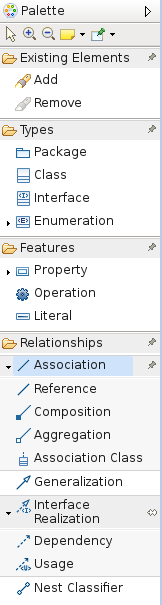
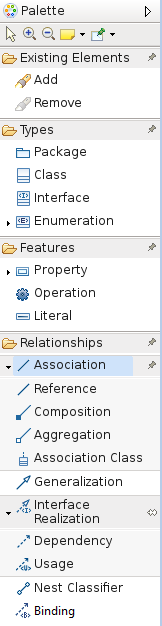
UML-365: Provide the documentation about generic class.

Changed region(s): [[0.0, 0.0, 0.9877, 1.0]]

diff --git a/plugins/org.obeonetwork.dsl.uml2.design.doc/doc/UML Designer User Guide.html b/plugins/org.obeonetwork.dsl.uml2.design.doc/doc/UML Designer User Guide.html
@@ -1,1 +1,1 @@
-<?xml version='1.0' encoding='utf-8' ?><!DOCTYPE html PUBLIC "-//W3C//DTD XHTML 1.0 Transitional//EN" "http://www.w3.org/TR/xhtml1/DTD/xhtml1-transitional.dtd"><html xmlns="http://www.w3.org/1999/xhtml"><head><meta http-equiv="Content-Type" content="text/html; charset=utf-8"/></head><body><p><i>&#169; Obeo 2011 -  All rights reserved. This program and the accompanying materials are made available under the terms of the Eclipse Public License v1.0</i></p><p><code>Authors</code> Gonzague Reydet / Cédric Brun / Yvan Lussaud<br/><code>Contact</code> cedric.brun@obeo.fr / yvan.lussaud@obeo.fr</p><h1 id="ProvidingFeedback">Providing Feedback</h1><p>This UML modeling environment is based on the <a href="http://www.obeodesigner.com">Obeo Designer</a> product. It is under an<br/>Open Source license (<strong>EPL</strong>) and the source code is hosted on <a href="https://github.com/ObeoNetwork/UML-Modeling">github</a>. </p><p>It is intended to cover most use cases behind the usage of UML, and more importantly to be reused when you apply a <br/>model driven approach wich uses both <strong>UML and some DSL</strong>. Everything should integrate seamlessly  in the same environment. </p><p>We&#8217;re constantly looking for feedback about this modeler, if you think something is missing, some behavior is weird or even just to tell us you are happy with it in its current state, <strong>please come and exchange</strong> on the <a href="http://www.obeonetwork.com/group/uml-designer">Obeo Network</a><br/>Fill in our <a href="http://bit.ly/UMLDesignerSurvey">survey</a>!</p><p>Feel free to fork the code, adapt it for your need and trigger a <a href="https://help.github.com/articles/using-pull-requests">pull request</a>.</p><h1 id="GettingStarted">Getting Started</h1><p>This section describes how to start using the UML designer either from existing UML models or by creating a new one.</p><h2 id="StartingfromtheTravelAgencyexample">Starting from the Travel Agency example</h2><p>Import the TravelAgency project using the menu <code>File/New/Example...</code>.</p><p><img border="0" src="gettingStarted/example-1-menu.png"/></p><p>Pick the <strong>Travel Agency UML</strong> wizard and click on <code>Next</code> and then <code>Finish</code>.</p><p><img border="0" src="gettingStarted/example-2-wizard.png"/></p><p>Click Finish on the wizard and a <strong>TravelAgency</strong> project appears in your workspace. </p><p><img border="0" src="gettingStarted/example-3-workspace.png"/></p><p>When the project gets opened,  you will be greeted with the main package hierarchy diagram.</p><p><img border="0" src="gettingStarted/example-4-maindiag.png"/></p><p>From here you can navigate to existing diagrams by right clicking on the <strong>Model</strong>.</p><h2 id="CreateanewUMLmodelUMLproject">Create a new UML model &amp; UML project</h2><p>To create a new UML project , enable the Modeling Perspective.</p><p><img border="0" src="gettingStarted/perspective.png"/></p><p>Then click on the wizard shortcuts at the top-right of the Eclipse Workbench. Select  <i>New UML Project.</i> </p><p><img border="0" src="gettingStarted/newUMLModel.png"/></p><p>You can choose specific name for the project and the root element for the project on the next pages.</p><p><img border="0" src="gettingStarted/newUMLProject.png"/></p><p>When you press the <i>Finish</i> button, the projects gets created and automatically enabled the UML viewpoints.</p><p><img border="0" src="gettingStarted/new-workspace.png"/></p><p>Now you can right click on the displayed package to create all the available diagrams or use the palette to create the package structure that fits to your needs. You can also open the Package hierarchy diagram and starts from here:</p><p><img border="0" src="gettingStarted/new-maindiag.png"/></p><h2 id="DisplayeditanexistingUMLmodel">Display &amp; edit an existing UML model</h2><p>To create a new UML design on existing UML models, simply drag &amp; drop the models in the Project or use the <i>Add Model</i> action available on the <i>Project Dependencies</i> item.</p><p><img border="0" src="gettingStarted/new-add-dependency.png"/></p><h2 id="vpselection">UML designer viewpoints</h2><p>Two viewpoints are specified on the UML designer each bringing the following views:</p><ul><li>UML Structural modeling<ul><li>Package hierarchy diagram</li><li>Class diagram</li><li>Component diagram</li><li>Object diagram</li><li>Composite diagram</li><li>Deployment diagram</li></ul></li><li>UML Behavioral modeling<ul><li>State machine diagram</li><li>Activity diagram</li><li>Use case diagram</li><li>Sequence diagram</li></ul></li><li>UML Profile Design<ul><li>Profile diagram</li></ul></li></ul><p>You can select either viewpoints or both depending on your use case. Note that the <i>Package hierarchy diagram</i> is the entry point to create new diagrams such as Activity or Sequence diagrams. So it is advised to select at least the <i>UML Structural modeling</i> viewpoint.</p><h1 id="UsingthePackageHierarchyDiagram">Using the Package Hierarchy Diagram</h1><p>The <code>Package Hierarchy</code> diagram is the starting point of your modeling task. It shows you <br/>the structure of your model (packages and sub-packages) and enable the creation of the other diagrams.</p><h2 id="CreatingaClassDiagram">Creating a Class Diagram</h2><p>To create a class diagram you should <strong>right-click</strong> on your model or on a package and pick <code>navigate</code> and then <code>new Class Diagram</code>.</p><p><img border="0" src="using_package_hierarchy/create_classdiag.png"/></p><h2 id="CreatingaDeploymentDiagram">Creating a Deployment Diagram</h2><p>To create a deployment diagram you should <strong>right-click</strong> on your model or on a package and pick <code>navigate</code> and then <code>new Deployment Diagram</code>.</p><h1 id="UsingtheClassDiagram">Using the Class Diagram</h1><h2 id="CreatingElements">Creating Elements</h2><p>All the elements you can create in a class diagram are available through the <strong>palette</strong>.</p><p><img border="0" src="using_class_diagram/palette.png"/></p><p>You also have the ability to create elements in a contextual way related to the currently selected elements.<br/>If your pointer is on the diagram background, after a few seconds you should see the following assistant :</p><p><img border="0" src="using_class_diagram/assistant.png"/></p><p>If your pointer is <strong>on a class</strong> the assistant will be : </p><p><img border="0" src="using_class_diagram/assistant_class.png"/></p><h2 id="EditingElements">Editing Elements</h2><p>The generic way to edit element values is using the <strong>properties view</strong>. If it is not opened yet<br/>you can open it clicking on the <strong>Window</strong> menu, then <strong>Show View</strong>  and then <strong>Properties</strong></p><p><img border="0" src="using_class_diagram/properties.png"/> </p><p>To edit a property you should then enable the <strong>Semantic</strong> tab :</p><p><img border="0" src="using_class_diagram/properties_values.png"/></p><h2 id="UsingUMLincolors">Using UML in colors</h2><p><a href="http://en.wikipedia.org/wiki/UML_colors">UML in colors</a> is an object modeling technique proposed by <a href="http://www.step-10.com/SoftwareDesign/ModellingInColour/index.html">Peter Coad</a>, Eric Lefebvre, and Jeff De Luca in a series of articles in 1999.<br/><img border="0" src="uml_in_colors/example.png"/><br/>An <code>Archetypes</code> layer is available in the UML Designer <code>class diagram</code>.<br/><img border="0" src="uml_in_colors/layer.png"/></p><p>When the layer is selected, new tools are available in the palette :<br/><img border="0" src="uml_in_colors/palette.png"/></p><p>The modeling in color patterns and strategies are built around the idea of class archetypes.<br/><img border="0" src="http://www.step-10.com/SoftwareDesign/ModellingInColour/images/FourArchetypesWithContentSideBySide.gif"/><br/>It exists four different kind of archetypes :</p><ul><li><strong>moment-interval</strong> and <strong>mi-detail</strong> (pink): represents a moment or interval of time, all things that happen in the software.</li><li><strong>role</strong> (yellow): represents something/someone who participates to moment-intervals.  </li><li><strong>description</strong> (blue): represents a collection of values a kind of catalog.</li><li><strong>party, place, or thing</strong> (green): represents someone or something that plays a role.</li></ul><p>The Domain Neutral Component (DNC) is the common pattern applied with the UML in colors technique.<br/><img border="0" src="http://www.step-10.com/SoftwareDesign/ModellingInColour/images/DNC.gif"/></p><p>To create an archetype in a class diagram just select an archetype from the palette of the tooltip.<br/>The archetypes are stored in UML model as stereotyped classes.<br/>To change an existing class to an archetype just selects the tool from the palette and the existing class. The stereotype of the selected archetype is applied on the class which is colored.</p><p>UML in colors examples are available from Eclipse menu File &gt; New &gt; Example... &gt; UML &gt; Uml in colors.</p><p>For more detailed explanation on UML in colors have a look to <a href="http://www.step-10.com/SoftwareDesign/ModellingInColour/index.html">Peter Coad&#8217;s website</a>.</p><h2 id="EditingAttributes">Editing Attributes</h2><p>We added a few accelerators so that you can quickly edit <strong>Attributes</strong> in a class just by typing the label. Typing : </p><ul><li><code>aNewName</code> will update the attribute name.</li><li><code>aNewName : SomeType</code> will update the attribute name and will look for the <strong>datatype</strong> with the given name. If found it will </li><li><code>/someName</code> will set the Attribute as <strong>derived</strong>.</li><li><code>=someValue</code> will set the <strong>default value</strong> of the Attribute. </li><li><code>[0..1]</code> will set the <strong>multiplicity</strong> of the attribute to 0 for the lower bound and 1 for the upper bound.</li><li><code>[0..*]</code> will set the <strong>multiplicity</strong> of the attribute to 0 for the lower bound and unbounded for the upper bound.</li></ul><h1 id="UsingtheDeploymentDiagram">Using the Deployment Diagram</h1><h2 id="CreatingElements2">Creating Elements</h2><p>All the elements you can create in a deployment diagram are available through the <strong>palette</strong>.</p><p><img border="0" src="using_deployment_diagram/palette.png"/></p><p>You also have the ability to create elements in a contextual way related to the currently selected elements.<br/>If your pointer is on the diagram background, after a few seconds you should see the following assistant :</p><p><img border="0" src="using_deployment_diagram/assistant.png"/></p><p>If your pointer is <strong>on a node</strong> the assistant will be : </p><p><img border="0" src="using_deployment_diagram/assistant_node.png"/></p><p>In deed, a node is a composite element.</p><h2 id="Editinglabels">Editing labels</h2><p>We added a few accelerators so that you can quickly edit <strong>labels</strong> on elements or edges just by typing. Typing : </p><ul><li><code>aNewName</code> will update the label.</li></ul><h1 id="UsingtheProfileDiagram">Using the Profile Diagram</h1><p><img border="0" src="using_profile_diagram/profile_diagram.png"/></p><h2 id="Creatingaprofile">Creating a profile</h2><p>To create a new profile, <strong>right_click</strong> on a model element in the Model Explorer and select the menu <em>New Representation &gt; Profile Diagram</em>.<br/><img border="0" src="using_profile_diagram/new_profile_diagram_menu.png"/></p><p>Another solution is to <strong>create a new UML model</strong> and select <strong><em>Profile</em></strong> as root element.<br/><img border="0" src="using_profile_diagram/new_profile_diagram_model.png"/></p><h2 id="Creatingastereotype">Creating a stereotype</h2><p>A tool is available in the palette to create a stereotype. <br/><img border="0" src="using_profile_diagram/palette_stereotype.png"/><br/><img border="0" src="using_profile_diagram/stereotype.png"/></p><p>By default, a stereotype does not extend any metaclass.</p><h2 id="Referencingametaclass">Referencing a metaclass</h2><p>A tool is available in the palette to import a list of metaclass.<br/><img border="0" src="using_profile_diagram/palette_metaclass.png"/><br/><img border="0" src="using_profile_diagram/metaclass.png"/></p><p>It opens a wizard which proposes all the available UML metaclass:<br/><img border="0" src="using_profile_diagram/wizard_metaclass.png"/></p><p>It is possible to filter the listed metaclass by :</p><ul><li>Name</li><li>Only concrete metaclasses</li><li>Only sub classes of a selected metaclass</li></ul><h2 id="Extendingametaclass">Extending a metaclass</h2><p>A tool is available in the palette to create extensions for a stereotype.<br/><img border="0" src="using_profile_diagram/palette_extension.png"/><br/><img border="0" src="using_profile_diagram/extension.png"/><br/>According to the context, this tool will create an <em>Extension</em> edge linking <em>Stereotype</em> to an <em>Element Import</em> or a <em>Generalization</em> edge linking two <em>Stereotypes</em>. An <em>Element Import</em> is an UML reference to an imported metaclass in a profile.<br/><img border="0" src="using_profile_diagram/wizard_metaclass.png"/></p><h2 id="Extraassociations">Extra associations</h2><p>This tool allows the creation of an UML “Association” between two stereotypes. <br/><img border="0" src="using_profile_diagram/extra_association.png"/><br/>Furthermore, this tool can suggest to reuse the existing relationship in the metamodel UML, if this relationship can link the metaclass referenced by the target and the source stereotype of the wanted association.<br/>If the user selects an existing relationship of the UML metamodel, then the tool will import the metaclass of the selected relationship and create a new stereotype that extend this relationship. Besides, the tool link graphically the new created stereotype and the source and target stereotype of the association<br/><img border="0" src="using_profile_diagram/wizard_extra_association.png"/></p><h2 id="Definingaprofile">Defining a profile</h2><p>The palette provides a tool to <strong>define a profile</strong> in order to be able to apply this one for other UML model in the workspace. This tool add information about the version to the profile as <em>Ecore Annotation</em>. Mainly, the information required for the versioning are:</p><ul><li>Version number</li><li>Date</li><li>Author</li><li>Comment</li><li>Copyright</li></ul><p><img border="0" src="using_profile_diagram/define_profile.png"/></p><p>Another tool is available to <strong>undefine a profile</strong>, this tool removes all the <em>EPackage</em> representing the definition from the profile.</p><h2 id="Exportingaprofile">Exporting a profile</h2><p>An <em>export profile</em> tool is available from the palette to export a profile as a jar file. This jar can be added to an eclipse platform to provide a profile as a registered package. The export operation creates an EMF project with an ecore file based on the profile model. Then an extension for the profile is added to the generated project (in “uml.generated_package” and “ecore.uri_mapping”). Finally, the tool builds and exports the created EMF project for the profile as a Deployable plug-in.<br/>The tool requires some necessary information for the creation of the deployable plug-in:</p><ul><li>Profile name, which is editable in the profile model.</li><li>Profile URI.</li><li>Profile plug-in name.</li><li>Version information</li></ul><p><img border="0" src="using_profile_diagram/export_profile.png"/></p><h1 id="Features">Features</h1><h2 id="ClassDiagram">Class Diagram</h2><h3 id="Introduction">Introduction</h3><p><img border="0" src="features/agency_pics/entities.jpg"/></p><h3 id="SupportforBrokenAssociations">Support for Broken Associations</h3><p>It might happen that for some reason you have an <strong>Association</strong> instance in your package which doesn&#8217;t have the proper <strong>ends</strong>. In that case<br/>the class diagram will show the broken associations as nodes :</p><p><img border="0" src="features/class_pics/broken associations Class Diagram.jpg"/></p><p>You can use the <strong>Association</strong> tools in the palette <i>(Association, Reference, Composition and Aggregation)</i> to re-attach the Association to a classifier.</p><h3 id="ClassesinSubComponents">Classes in SubComponents</h3><p>A <strong>Class Diagram</strong> created on a Package or a Model will display the contained classes but also the classes which are contained in Components of the selected Package.</p><p>Thanks to this one can easily define a <strong>Class Diagram</strong> displaying all the entities abstracting the fact that they might be split across components.</p><h2 id="ComponentDiagram">Component Diagram</h2><h3 id="Introduction2">Introduction</h3><p><img border="0" src="features/agency_pics/system architecture.jpg"/></p><h3 id="Connector">Connector</h3><p>You can link two ports using assembly or delegation connectors.</p><p>Assembly Connector :</p><p><img border="0" src="features/component_pics/assembly connector.jpg"/></p><p>Delegation Connector :</p><p><img border="0" src="features/component_pics/delegation connector.jpg"/></p><h3 id="CompositeComponents">Composite Components</h3><p><img border="0" src="features/component_pics/composite components.jpg"/></p><h3 id="UsingClass">Using Class</h3><p>As a component :</p><p><img border="0" src="features/component_pics/class as component.jpg"/></p><p>In a component :</p><p><img border="0" src="features/component_pics/implementation classes in component.jpg"/></p><h3 id="RequiredandProvidedInterfaces">Required and Provided Interfaces</h3><p>Using ports :</p><p><img border="0" src="features/component_pics/exchange through ports.jpg"/></p><p>Or directy on the components :</p><p><img border="0" src="features/component_pics/exchange through component.jpg"/></p><h2 id="UseCaseDiagram">Use Case Diagram</h2><h3 id="Introduction3">Introduction</h3><p><img border="0" src="features/agency_pics/system use cases.jpg"/></p><h3 id="Usecaseswithorwithoutsubjects">Use cases with or without subjects</h3><p>The <strong>Use Case Diagram</strong> will display any <code>UseCase</code> not being affected to a subject on the canvas. If a subject is affected, then the use case<br/>will be displayed directly within this subject.</p><p>Dragging a use case from a subject to the canvas (and the other way around) will set or unset the subject accordingly.</p><h2 id="ActivityDiagram">Activity Diagram</h2><h3 id="Introduction4">Introduction</h3><p><img border="0" src="features/agency_pics/to reserve a trip.jpg"/></p><h2 id="StateMachineDiagram">State Machine Diagram</h2><h3 id="Introduction5">Introduction</h3><p><img border="0" src="features/agency_pics/state_machine.png"/></p><h2 id="SequenceDiagram">Sequence Diagram</h2><p><img border="0" src="features/agency_pics/sequence.png"/></p><h2 id="DeploymentDiagram">Deployment Diagram</h2><h3 id="Introduction6">Introduction</h3><p><img border="0" src="features/agency_pics/deployment.png"/></p><h3 id="Artifactdependencyandgeneralization">Artifact dependency and generalization</h3><p><img border="0" src="features/deployment_pics/artifact_dependency_generalization.png"/></p><h3 id="Artifactmanifestationofpackageableelements">Artifact manifestation of packageable elements</h3><p><img border="0" src="features/deployment_pics/artifact_manifestation_component_package.png"/></p><h3 id="Artifactdeployment">Artifact deployment</h3><p><img border="0" src="features/deployment_pics/artifact_deployment.png"/><br/>We have two way to deploy an artifact:</p><ul><li>Deployment could be shown as a deploy dependency that is drawn from the artifact to the deployment target.</li><li>Deployment could also be shown with deployed artifacts contained by a deployment target.</li></ul><h3 id="DeviceExecutionEnvironmentNodeandlinks.">Device, Execution Environment, Node and links.</h3><p><img border="0" src="features/deployment_pics/links_between_nodes.png"/></p><h3 id="CompositeNodes">Composite Nodes</h3><p><img border="0" src="features/deployment_pics/composition.png"/></p></body></html>
+<?xml version='1.0' encoding='utf-8' ?><!DOCTYPE html PUBLIC "-//W3C//DTD XHTML 1.0 Transitional//EN" "http://www.w3.org/TR/xhtml1/DTD/xhtml1-transitional.dtd"><html xmlns="http://www.w3.org/1999/xhtml"><head><meta http-equiv="Content-Type" content="text/html; charset=utf-8"/></head><body><p><i>&#169; Obeo 2011 -  All rights reserved. This program and the accompanying materials are made available under the terms of the Eclipse Public License v1.0</i></p><p><code>Authors</code> Gonzague Reydet / Cédric Brun / Yvan Lussaud<br/><code>Contact</code> cedric.brun@obeo.fr / yvan.lussaud@obeo.fr</p><h1 id="ProvidingFeedback">Providing Feedback</h1><p>This UML modeling environment is based on the <a href="http://www.obeodesigner.com">Obeo Designer</a> product. It is under an<br/>Open Source license (<strong>EPL</strong>) and the source code is hosted on <a href="https://github.com/ObeoNetwork/UML-Modeling">github</a>. </p><p>It is intended to cover most use cases behind the usage of UML, and more importantly to be reused when you apply a <br/>model driven approach wich uses both <strong>UML and some DSL</strong>. Everything should integrate seamlessly  in the same environment. </p><p>We&#8217;re constantly looking for feedback about this modeler, if you think something is missing, some behavior is weird or even just to tell us you are happy with it in its current state, <strong>please come and exchange</strong> on the <a href="http://www.obeonetwork.com/group/uml-designer">Obeo Network</a><br/>Fill in our <a href="http://bit.ly/UMLDesignerSurvey">survey</a>!</p><p>Feel free to fork the code, adapt it for your need and trigger a <a href="https://help.github.com/articles/using-pull-requests">pull request</a>.</p><h1 id="GettingStarted">Getting Started</h1><p>This section describes how to start using the UML designer either from existing UML models or by creating a new one.</p><h2 id="StartingfromtheTravelAgencyexample">Starting from the Travel Agency example</h2><p>Import the TravelAgency project using the menu <code>File/New/Example...</code>.</p><p><img border="0" src="gettingStarted/example-1-menu.png"/></p><p>Pick the <strong>Travel Agency UML</strong> wizard and click on <code>Next</code> and then <code>Finish</code>.</p><p><img border="0" src="gettingStarted/example-2-wizard.png"/></p><p>Click Finish on the wizard and a <strong>TravelAgency</strong> project appears in your workspace. </p><p><img border="0" src="gettingStarted/example-3-workspace.png"/></p><p>When the project gets opened,  you will be greeted with the main package hierarchy diagram.</p><p><img border="0" src="gettingStarted/example-4-maindiag.png"/></p><p>From here you can navigate to existing diagrams by right clicking on the <strong>Model</strong>.</p><h2 id="CreateanewUMLmodelUMLproject">Create a new UML model &amp; UML project</h2><p>To create a new UML project , enable the Modeling Perspective.</p><p><img border="0" src="gettingStarted/perspective.png"/></p><p>Then click on the wizard shortcuts at the top-right of the Eclipse Workbench. Select  <i>New UML Project.</i> </p><p><img border="0" src="gettingStarted/newUMLModel.png"/></p><p>You can choose specific name for the project and the root element for the project on the next pages.</p><p><img border="0" src="gettingStarted/newUMLProject.png"/></p><p>When you press the <i>Finish</i> button, the projects gets created and automatically enabled the UML viewpoints.</p><p><img border="0" src="gettingStarted/new-workspace.png"/></p><p>Now you can right click on the displayed package to create all the available diagrams or use the palette to create the package structure that fits to your needs. You can also open the Package hierarchy diagram and starts from here:</p><p><img border="0" src="gettingStarted/new-maindiag.png"/></p><h2 id="DisplayeditanexistingUMLmodel">Display &amp; edit an existing UML model</h2><p>To create a new UML design on existing UML models, simply drag &amp; drop the models in the Project or use the <i>Add Model</i> action available on the <i>Project Dependencies</i> item.</p><p><img border="0" src="gettingStarted/new-add-dependency.png"/></p><h2 id="vpselection">UML designer viewpoints</h2><p>Two viewpoints are specified on the UML designer each bringing the following views:</p><ul><li>UML Structural modeling<ul><li>Package hierarchy diagram</li><li>Class diagram</li><li>Component diagram</li><li>Object diagram</li><li>Composite diagram</li><li>Deployment diagram</li></ul></li><li>UML Behavioral modeling<ul><li>State machine diagram</li><li>Activity diagram</li><li>Use case diagram</li><li>Sequence diagram</li></ul></li><li>UML Profile Design<ul><li>Profile diagram</li></ul></li></ul><p>You can select either viewpoints or both depending on your use case. Note that the <i>Package hierarchy diagram</i> is the entry point to create new diagrams such as Activity or Sequence diagrams. So it is advised to select at least the <i>UML Structural modeling</i> viewpoint.</p><h1 id="UsingthePackageHierarchyDiagram">Using the Package Hierarchy Diagram</h1><p>The <code>Package Hierarchy</code> diagram is the starting point of your modeling task. It shows you <br/>the structure of your model (packages and sub-packages) and enable the creation of the other diagrams.</p><h2 id="CreatingaClassDiagram">Creating a Class Diagram</h2><p>To create a class diagram you should <strong>right-click</strong> on your model or on a package and pick <code>navigate</code> and then <code>new Class Diagram</code>.</p><p><img border="0" src="using_package_hierarchy/create_classdiag.png"/></p><h2 id="CreatingaDeploymentDiagram">Creating a Deployment Diagram</h2><p>To create a deployment diagram you should <strong>right-click</strong> on your model or on a package and pick <code>navigate</code> and then <code>new Deployment Diagram</code>.</p><h1 id="UsingtheClassDiagram">Using the Class Diagram</h1><h2 id="CreatingElements">Creating Elements</h2><p>All the elements you can create in a class diagram are available through the <strong>palette</strong>.</p><p><img border="0" src="using_class_diagram/palette.png"/></p><p>You also have the ability to create elements in a contextual way related to the currently selected elements.<br/>If your pointer is on the diagram background, after a few seconds you should see the following assistant :</p><p><img border="0" src="using_class_diagram/assistant.png"/></p><p>If your pointer is <strong>on a class</strong> the assistant will be : </p><p><img border="0" src="using_class_diagram/assistant_class.png"/></p><h2 id="EditingElements">Editing Elements</h2><h3 id="Generality">Generality</h3><p>The generic way to edit element values is using the <strong>properties view</strong>. If it is not opened yet<br/>you can open it clicking on the <strong>Window</strong> menu, then <strong>Show View</strong>  and then <strong>Properties</strong></p><p><img border="0" src="using_class_diagram/properties.png"/> </p><p>To edit a property you should then enable the <strong>Semantic</strong> tab :</p><p><img border="0" src="using_class_diagram/properties_values.png"/></p><h3 id="GenericClass">Generic Class</h3><p>To define a Generic Class, use the direct edit tool:</p><p><img border="0" src="using_class_diagram/generic_class.png"/></p><p>To define a Binding, use the create edge tool called &#171;Binding&#187; from a Class to a Generic Class.<br/>You may notice that &#171;?&#187; refers to an undefined actual type:</p><p><img border="0" src="using_class_diagram/binding1_class.png"/></p><p>To specify the binding association from the formal to the actual type use also the direct edit tool:</p><p><img border="0" src="using_class_diagram/binding2_class.png"/></p><h2 id="UsingUMLincolors">Using UML in colors</h2><p><a href="http://en.wikipedia.org/wiki/UML_colors">UML in colors</a> is an object modeling technique proposed by <a href="http://www.step-10.com/SoftwareDesign/ModellingInColour/index.html">Peter Coad</a>, Eric Lefebvre, and Jeff De Luca in a series of articles in 1999.<br/><img border="0" src="uml_in_colors/example.png"/><br/>An <code>Archetypes</code> layer is available in the UML Designer <code>class diagram</code>.<br/><img border="0" src="uml_in_colors/layer.png"/></p><p>When the layer is selected, new tools are available in the palette :<br/><img border="0" src="uml_in_colors/palette.png"/></p><p>The modeling in color patterns and strategies are built around the idea of class archetypes.<br/><img border="0" src="http://www.step-10.com/SoftwareDesign/ModellingInColour/images/FourArchetypesWithContentSideBySide.gif"/><br/>It exists four different kind of archetypes :</p><ul><li><strong>moment-interval</strong> and <strong>mi-detail</strong> (pink): represents a moment or interval of time, all things that happen in the software.</li><li><strong>role</strong> (yellow): represents something/someone who participates to moment-intervals.  </li><li><strong>description</strong> (blue): represents a collection of values a kind of catalog.</li><li><strong>party, place, or thing</strong> (green): represents someone or something that plays a role.</li></ul><p>The Domain Neutral Component (DNC) is the common pattern applied with the UML in colors technique.<br/><img border="0" src="http://www.step-10.com/SoftwareDesign/ModellingInColour/images/DNC.gif"/></p><p>To create an archetype in a class diagram just select an archetype from the palette of the tooltip.<br/>The archetypes are stored in UML model as stereotyped classes.<br/>To change an existing class to an archetype just selects the tool from the palette and the existing class. The stereotype of the selected archetype is applied on the class which is colored.</p><p>UML in colors examples are available from Eclipse menu File &gt; New &gt; Example... &gt; UML &gt; Uml in colors.</p><p>For more detailed explanation on UML in colors have a look to <a href="http://www.step-10.com/SoftwareDesign/ModellingInColour/index.html">Peter Coad&#8217;s website</a>.</p><h2 id="EditingAttributes">Editing Attributes</h2><p>We added a few accelerators so that you can quickly edit <strong>Attributes</strong> in a class just by typing the label. Typing : </p><ul><li><code>aNewName</code> will update the attribute name.</li><li><code>aNewName : SomeType</code> will update the attribute name and will look for the <strong>datatype</strong> with the given name. If found it will </li><li><code>/someName</code> will set the Attribute as <strong>derived</strong>.</li><li><code>=someValue</code> will set the <strong>default value</strong> of the Attribute. </li><li><code>[0..1]</code> will set the <strong>multiplicity</strong> of the attribute to 0 for the lower bound and 1 for the upper bound.</li><li><code>[0..*]</code> will set the <strong>multiplicity</strong> of the attribute to 0 for the lower bound and unbounded for the upper bound.</li></ul><h1 id="UsingtheDeploymentDiagram">Using the Deployment Diagram</h1><h2 id="CreatingElements2">Creating Elements</h2><p>All the elements you can create in a deployment diagram are available through the <strong>palette</strong>.</p><p><img border="0" src="using_deployment_diagram/palette.png"/></p><p>You also have the ability to create elements in a contextual way related to the currently selected elements.<br/>If your pointer is on the diagram background, after a few seconds you should see the following assistant :</p><p><img border="0" src="using_deployment_diagram/assistant.png"/></p><p>If your pointer is <strong>on a node</strong> the assistant will be : </p><p><img border="0" src="using_deployment_diagram/assistant_node.png"/></p><p>In deed, a node is a composite element.</p><h2 id="Editinglabels">Editing labels</h2><p>We added a few accelerators so that you can quickly edit <strong>labels</strong> on elements or edges just by typing. Typing : </p><ul><li><code>aNewName</code> will update the label.</li></ul><h1 id="UsingtheProfileDiagram">Using the Profile Diagram</h1><p><img border="0" src="using_profile_diagram/profile_diagram.png"/></p><h2 id="Creatingaprofile">Creating a profile</h2><p>To create a new profile, <strong>right_click</strong> on a model element in the Model Explorer and select the menu <em>New Representation &gt; Profile Diagram</em>.<br/><img border="0" src="using_profile_diagram/new_profile_diagram_menu.png"/></p><p>Another solution is to <strong>create a new UML model</strong> and select <strong><em>Profile</em></strong> as root element.<br/><img border="0" src="using_profile_diagram/new_profile_diagram_model.png"/></p><h2 id="Creatingastereotype">Creating a stereotype</h2><p>A tool is available in the palette to create a stereotype. <br/><img border="0" src="using_profile_diagram/palette_stereotype.png"/><br/><img border="0" src="using_profile_diagram/stereotype.png"/></p><p>By default, a stereotype does not extend any metaclass.</p><h2 id="Referencingametaclass">Referencing a metaclass</h2><p>A tool is available in the palette to import a list of metaclass.<br/><img border="0" src="using_profile_diagram/palette_metaclass.png"/><br/><img border="0" src="using_profile_diagram/metaclass.png"/></p><p>It opens a wizard which proposes all the available UML metaclass:<br/><img border="0" src="using_profile_diagram/wizard_metaclass.png"/></p><p>It is possible to filter the listed metaclass by :</p><ul><li>Name</li><li>Only concrete metaclasses</li><li>Only sub classes of a selected metaclass</li></ul><h2 id="Extendingametaclass">Extending a metaclass</h2><p>A tool is available in the palette to create extensions for a stereotype.<br/><img border="0" src="using_profile_diagram/palette_extension.png"/><br/><img border="0" src="using_profile_diagram/extension.png"/><br/>According to the context, this tool will create an <em>Extension</em> edge linking <em>Stereotype</em> to an <em>Element Import</em> or a <em>Generalization</em> edge linking two <em>Stereotypes</em>. An <em>Element Import</em> is an UML reference to an imported metaclass in a profile.<br/><img border="0" src="using_profile_diagram/wizard_metaclass.png"/></p><h2 id="Extraassociations">Extra associations</h2><p>This tool allows the creation of an UML “Association” between two stereotypes. <br/><img border="0" src="using_profile_diagram/extra_association.png"/><br/>Furthermore, this tool can suggest to reuse the existing relationship in the metamodel UML, if this relationship can link the metaclass referenced by the target and the source stereotype of the wanted association.<br/>If the user selects an existing relationship of the UML metamodel, then the tool will import the metaclass of the selected relationship and create a new stereotype that extend this relationship. Besides, the tool link graphically the new created stereotype and the source and target stereotype of the association<br/><img border="0" src="using_profile_diagram/wizard_extra_association.png"/></p><h2 id="Definingaprofile">Defining a profile</h2><p>The palette provides a tool to <strong>define a profile</strong> in order to be able to apply this one for other UML model in the workspace. This tool add information about the version to the profile as <em>Ecore Annotation</em>. Mainly, the information required for the versioning are:</p><ul><li>Version number</li><li>Date</li><li>Author</li><li>Comment</li><li>Copyright</li></ul><p><img border="0" src="using_profile_diagram/define_profile.png"/></p><p>Another tool is available to <strong>undefine a profile</strong>, this tool removes all the <em>EPackage</em> representing the definition from the profile.</p><h2 id="Exportingaprofile">Exporting a profile</h2><p>An <em>export profile</em> tool is available from the palette to export a profile as a jar file. This jar can be added to an eclipse platform to provide a profile as a registered package. The export operation creates an EMF project with an ecore file based on the profile model. Then an extension for the profile is added to the generated project (in “uml.generated_package” and “ecore.uri_mapping”). Finally, the tool builds and exports the created EMF project for the profile as a Deployable plug-in.<br/>The tool requires some necessary information for the creation of the deployable plug-in:</p><ul><li>Profile name, which is editable in the profile model.</li><li>Profile URI.</li><li>Profile plug-in name.</li><li>Version information</li></ul><p><img border="0" src="using_profile_diagram/export_profile.png"/></p><h1 id="Features">Features</h1><h2 id="ClassDiagram">Class Diagram</h2><h3 id="Introduction">Introduction</h3><p><img border="0" src="features/agency_pics/entities.jpg"/></p><h3 id="SupportforBrokenAssociations">Support for Broken Associations</h3><p>It might happen that for some reason you have an <strong>Association</strong> instance in your package which doesn&#8217;t have the proper <strong>ends</strong>. In that case<br/>the class diagram will show the broken associations as nodes :</p><p><img border="0" src="features/class_pics/broken associations Class Diagram.jpg"/></p><p>You can use the <strong>Association</strong> tools in the palette <i>(Association, Reference, Composition and Aggregation)</i> to re-attach the Association to a classifier.</p><h3 id="ClassesinSubComponents">Classes in SubComponents</h3><p>A <strong>Class Diagram</strong> created on a Package or a Model will display the contained classes but also the classes which are contained in Components of the selected Package.</p><p>Thanks to this one can easily define a <strong>Class Diagram</strong> displaying all the entities abstracting the fact that they might be split across components.</p><h2 id="ComponentDiagram">Component Diagram</h2><h3 id="Introduction2">Introduction</h3><p><img border="0" src="features/agency_pics/system architecture.jpg"/></p><h3 id="Connector">Connector</h3><p>You can link two ports using assembly or delegation connectors.</p><p>Assembly Connector :</p><p><img border="0" src="features/component_pics/assembly connector.jpg"/></p><p>Delegation Connector :</p><p><img border="0" src="features/component_pics/delegation connector.jpg"/></p><h3 id="CompositeComponents">Composite Components</h3><p><img border="0" src="features/component_pics/composite components.jpg"/></p><h3 id="UsingClass">Using Class</h3><p>As a component :</p><p><img border="0" src="features/component_pics/class as component.jpg"/></p><p>In a component :</p><p><img border="0" src="features/component_pics/implementation classes in component.jpg"/></p><h3 id="RequiredandProvidedInterfaces">Required and Provided Interfaces</h3><p>Using ports :</p><p><img border="0" src="features/component_pics/exchange through ports.jpg"/></p><p>Or directy on the components :</p><p><img border="0" src="features/component_pics/exchange through component.jpg"/></p><h2 id="UseCaseDiagram">Use Case Diagram</h2><h3 id="Introduction3">Introduction</h3><p><img border="0" src="features/agency_pics/system use cases.jpg"/></p><h3 id="Usecaseswithorwithoutsubjects">Use cases with or without subjects</h3><p>The <strong>Use Case Diagram</strong> will display any <code>UseCase</code> not being affected to a subject on the canvas. If a subject is affected, then the use case<br/>will be displayed directly within this subject.</p><p>Dragging a use case from a subject to the canvas (and the other way around) will set or unset the subject accordingly.</p><h2 id="ActivityDiagram">Activity Diagram</h2><h3 id="Introduction4">Introduction</h3><p><img border="0" src="features/agency_pics/to reserve a trip.jpg"/></p><h2 id="StateMachineDiagram">State Machine Diagram</h2><h3 id="Introduction5">Introduction</h3><p><img border="0" src="features/agency_pics/state_machine.png"/></p><h2 id="SequenceDiagram">Sequence Diagram</h2><p><img border="0" src="features/agency_pics/sequence.png"/></p><h2 id="DeploymentDiagram">Deployment Diagram</h2><h3 id="Introduction6">Introduction</h3><p><img border="0" src="features/agency_pics/deployment.png"/></p><h3 id="Artifactdependencyandgeneralization">Artifact dependency and generalization</h3><p><img border="0" src="features/deployment_pics/artifact_dependency_generalization.png"/></p><h3 id="Artifactmanifestationofpackageableelements">Artifact manifestation of packageable elements</h3><p><img border="0" src="features/deployment_pics/artifact_manifestation_component_package.png"/></p><h3 id="Artifactdeployment">Artifact deployment</h3><p><img border="0" src="features/deployment_pics/artifact_deployment.png"/><br/>We have two way to deploy an artifact:</p><ul><li>Deployment could be shown as a deploy dependency that is drawn from the artifact to the deployment target.</li><li>Deployment could also be shown with deployed artifacts contained by a deployment target.</li></ul><h3 id="DeviceExecutionEnvironmentNodeandlinks.">Device, Execution Environment, Node and links.</h3><p><img border="0" src="features/deployment_pics/links_between_nodes.png"/></p><h3 id="CompositeNodes">Composite Nodes</h3><p><img border="0" src="features/deployment_pics/composition.png"/></p></body></html>
